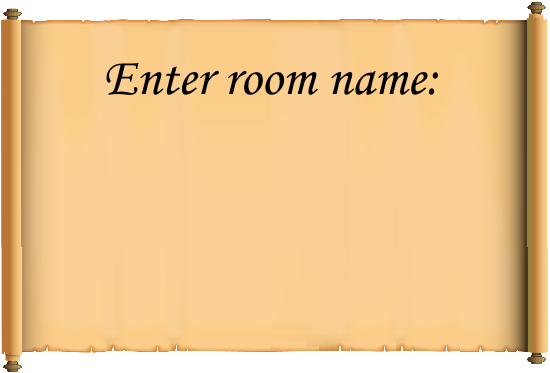
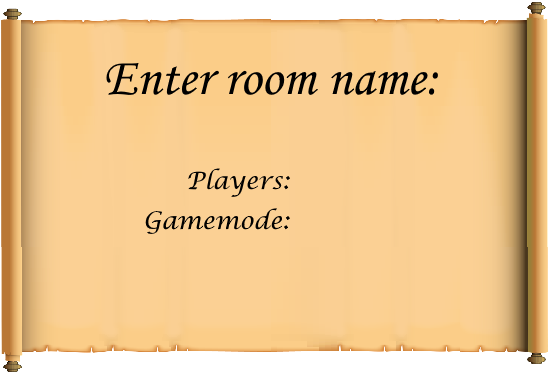
Choicebox in kamermenu
Menu voor aanmaken van de kamer is geupdate voor aantal spelers en gamemode.

Changed region(s): [[0.2473, 0.5603, 0.5255, 0.6193], [0.34, 0.4424, 0.5255, 0.5308]]

diff --git a/src/main/resources/css/style.css b/src/main/resources/css/style.css
@@ -29,8 +29,12 @@
     -fx-background-image: url('../img/availableroomspane.png');
 }
 
+#startGame{
+    -fx-background-image: url('../img/createtheroom.png');
+}
 
-#createRoom, #availableRoom, #exitGame, #makingRoom, #backButton, #cog, #enterUsername, #login, #settings{
+
+#createRoom, #availableRoom, #exitGame, #makingRoom, #backButton, #cog, #enterUsername, #login, #settings, #startGame{
     -fx-background-repeat: no-repeat;
     -fx-background-position: 90%;
     -fx-border-width: 0;
@@ -48,13 +52,13 @@
 }
 
 
-#createRoom:hover, #availableRoom:hover, #exitGame:hover, #backButton:hover, #cog:hover, #login:hover {
+#createRoom:hover, #availableRoom:hover, #exitGame:hover, #backButton:hover, #cog:hover, #login:hover, #startGame:hover {
      -fx-scale-y: 1.03;
      -fx-scale-x: 1.03;
      -fx-cursor: hand;
 }
 
-#createRoom:pressed, #availableRoom:pressed, #exitGame:pressed, #backButton:pressed, #cog:pressed, #login:pressed {
+#createRoom:pressed, #availableRoom:pressed, #exitGame:pressed, #backButton:pressed, #cog:pressed, #login:pressed, #startGame:pressed {
      -fx-scale-y: 0.97;
      -fx-scale-x: 0.97;
      -fx-cursor: hand;
@@ -64,6 +68,6 @@
  -fx-background-color:white;
 }
 
-#login, #login:hover, #login:pressed{
+#login, #login:hover, #login:pressed, #startGame{
     -fx-effect: dropshadow(three-pass-box, black, 0, 0.001 , 0, 0);
 }

diff --git a/target/classes/css/style.css b/target/classes/css/style.css
@@ -29,8 +29,12 @@
     -fx-background-image: url('../img/availableroomspane.png');
 }
 
+#startGame{
+    -fx-background-image: url('../img/createtheroom.png');
+}
 
-#createRoom, #availableRoom, #exitGame, #makingRoom, #backButton, #cog, #enterUsername, #login, #settings{
+
+#createRoom, #availableRoom, #exitGame, #makingRoom, #backButton, #cog, #enterUsername, #login, #settings, #startGame{
     -fx-background-repeat: no-repeat;
     -fx-background-position: 90%;
     -fx-border-width: 0;
@@ -48,13 +52,13 @@
 }
 
 
-#createRoom:hover, #availableRoom:hover, #exitGame:hover, #backButton:hover, #cog:hover, #login:hover {
+#createRoom:hover, #availableRoom:hover, #exitGame:hover, #backButton:hover, #cog:hover, #login:hover, #startGame:hover {
      -fx-scale-y: 1.03;
      -fx-scale-x: 1.03;
      -fx-cursor: hand;
 }
 
-#createRoom:pressed, #availableRoom:pressed, #exitGame:pressed, #backButton:pressed, #cog:pressed, #login:pressed {
+#createRoom:pressed, #availableRoom:pressed, #exitGame:pressed, #backButton:pressed, #cog:pressed, #login:pressed, #startGame:pressed {
      -fx-scale-y: 0.97;
      -fx-scale-x: 0.97;
      -fx-cursor: hand;
@@ -64,6 +68,6 @@
  -fx-background-color:white;
 }
 
-#login, #login:hover, #login:pressed{
+#login, #login:hover, #login:pressed, #startGame{
     -fx-effect: dropshadow(three-pass-box, black, 0, 0.001 , 0, 0);
 }

diff --git a/src/main/java/controllers/MenuViewController.java b/src/main/java/controllers/MenuViewController.java
@@ -1,11 +1,13 @@
 package controllers;
 
+import javafx.collections.FXCollections;
 import javafx.fxml.FXML;
 import javafx.fxml.FXMLLoader;
 import javafx.fxml.Initializable;
 import javafx.scene.Parent;
 import javafx.scene.Scene;
 import javafx.scene.control.Button;
+import javafx.scene.control.ChoiceBox;
 import javafx.scene.control.TextField;
 import javafx.scene.layout.FlowPane;
 import javafx.scene.layout.VBox;
@@ -21,6 +23,13 @@ public class MenuViewController implements Initializable {
 
     GameController gc = new GameController();
 
+    @FXML
+    ChoiceBox cb = new ChoiceBox();
+    @FXML
+    ChoiceBox cb2 = new ChoiceBox();
+
+
+
 
     @FXML
     private VBox rootPane; // aanmaken fx:id
@@ -30,13 +39,24 @@ public class MenuViewController implements Initializable {
     private Button startGame; // aanmaken fx:id
 
     @Override
-    public void initialize(URL location, ResourceBundle resources){ }
+    public void initialize(URL location, ResourceBundle resources){
+        cb.getItems().add("2");
+        cb.getItems().add("3");
+        cb.getItems().add("4");
+        cb.getItems().add("5");
+
+        cb2.getItems().add("easy");
+        cb2.getItems().add("medium");
+        cb2.getItems().add("hard");
+        cb2.getItems().add("random");
+    }
 
     // Create Room
     @FXML
     private void createRoom() throws IOException {
         VBox pane = FXMLLoader.load(getClass().getResource("../fxml/makingroom.fxml"));
         rootPane.getChildren().setAll(pane);
+
     }
 
     // Back button
